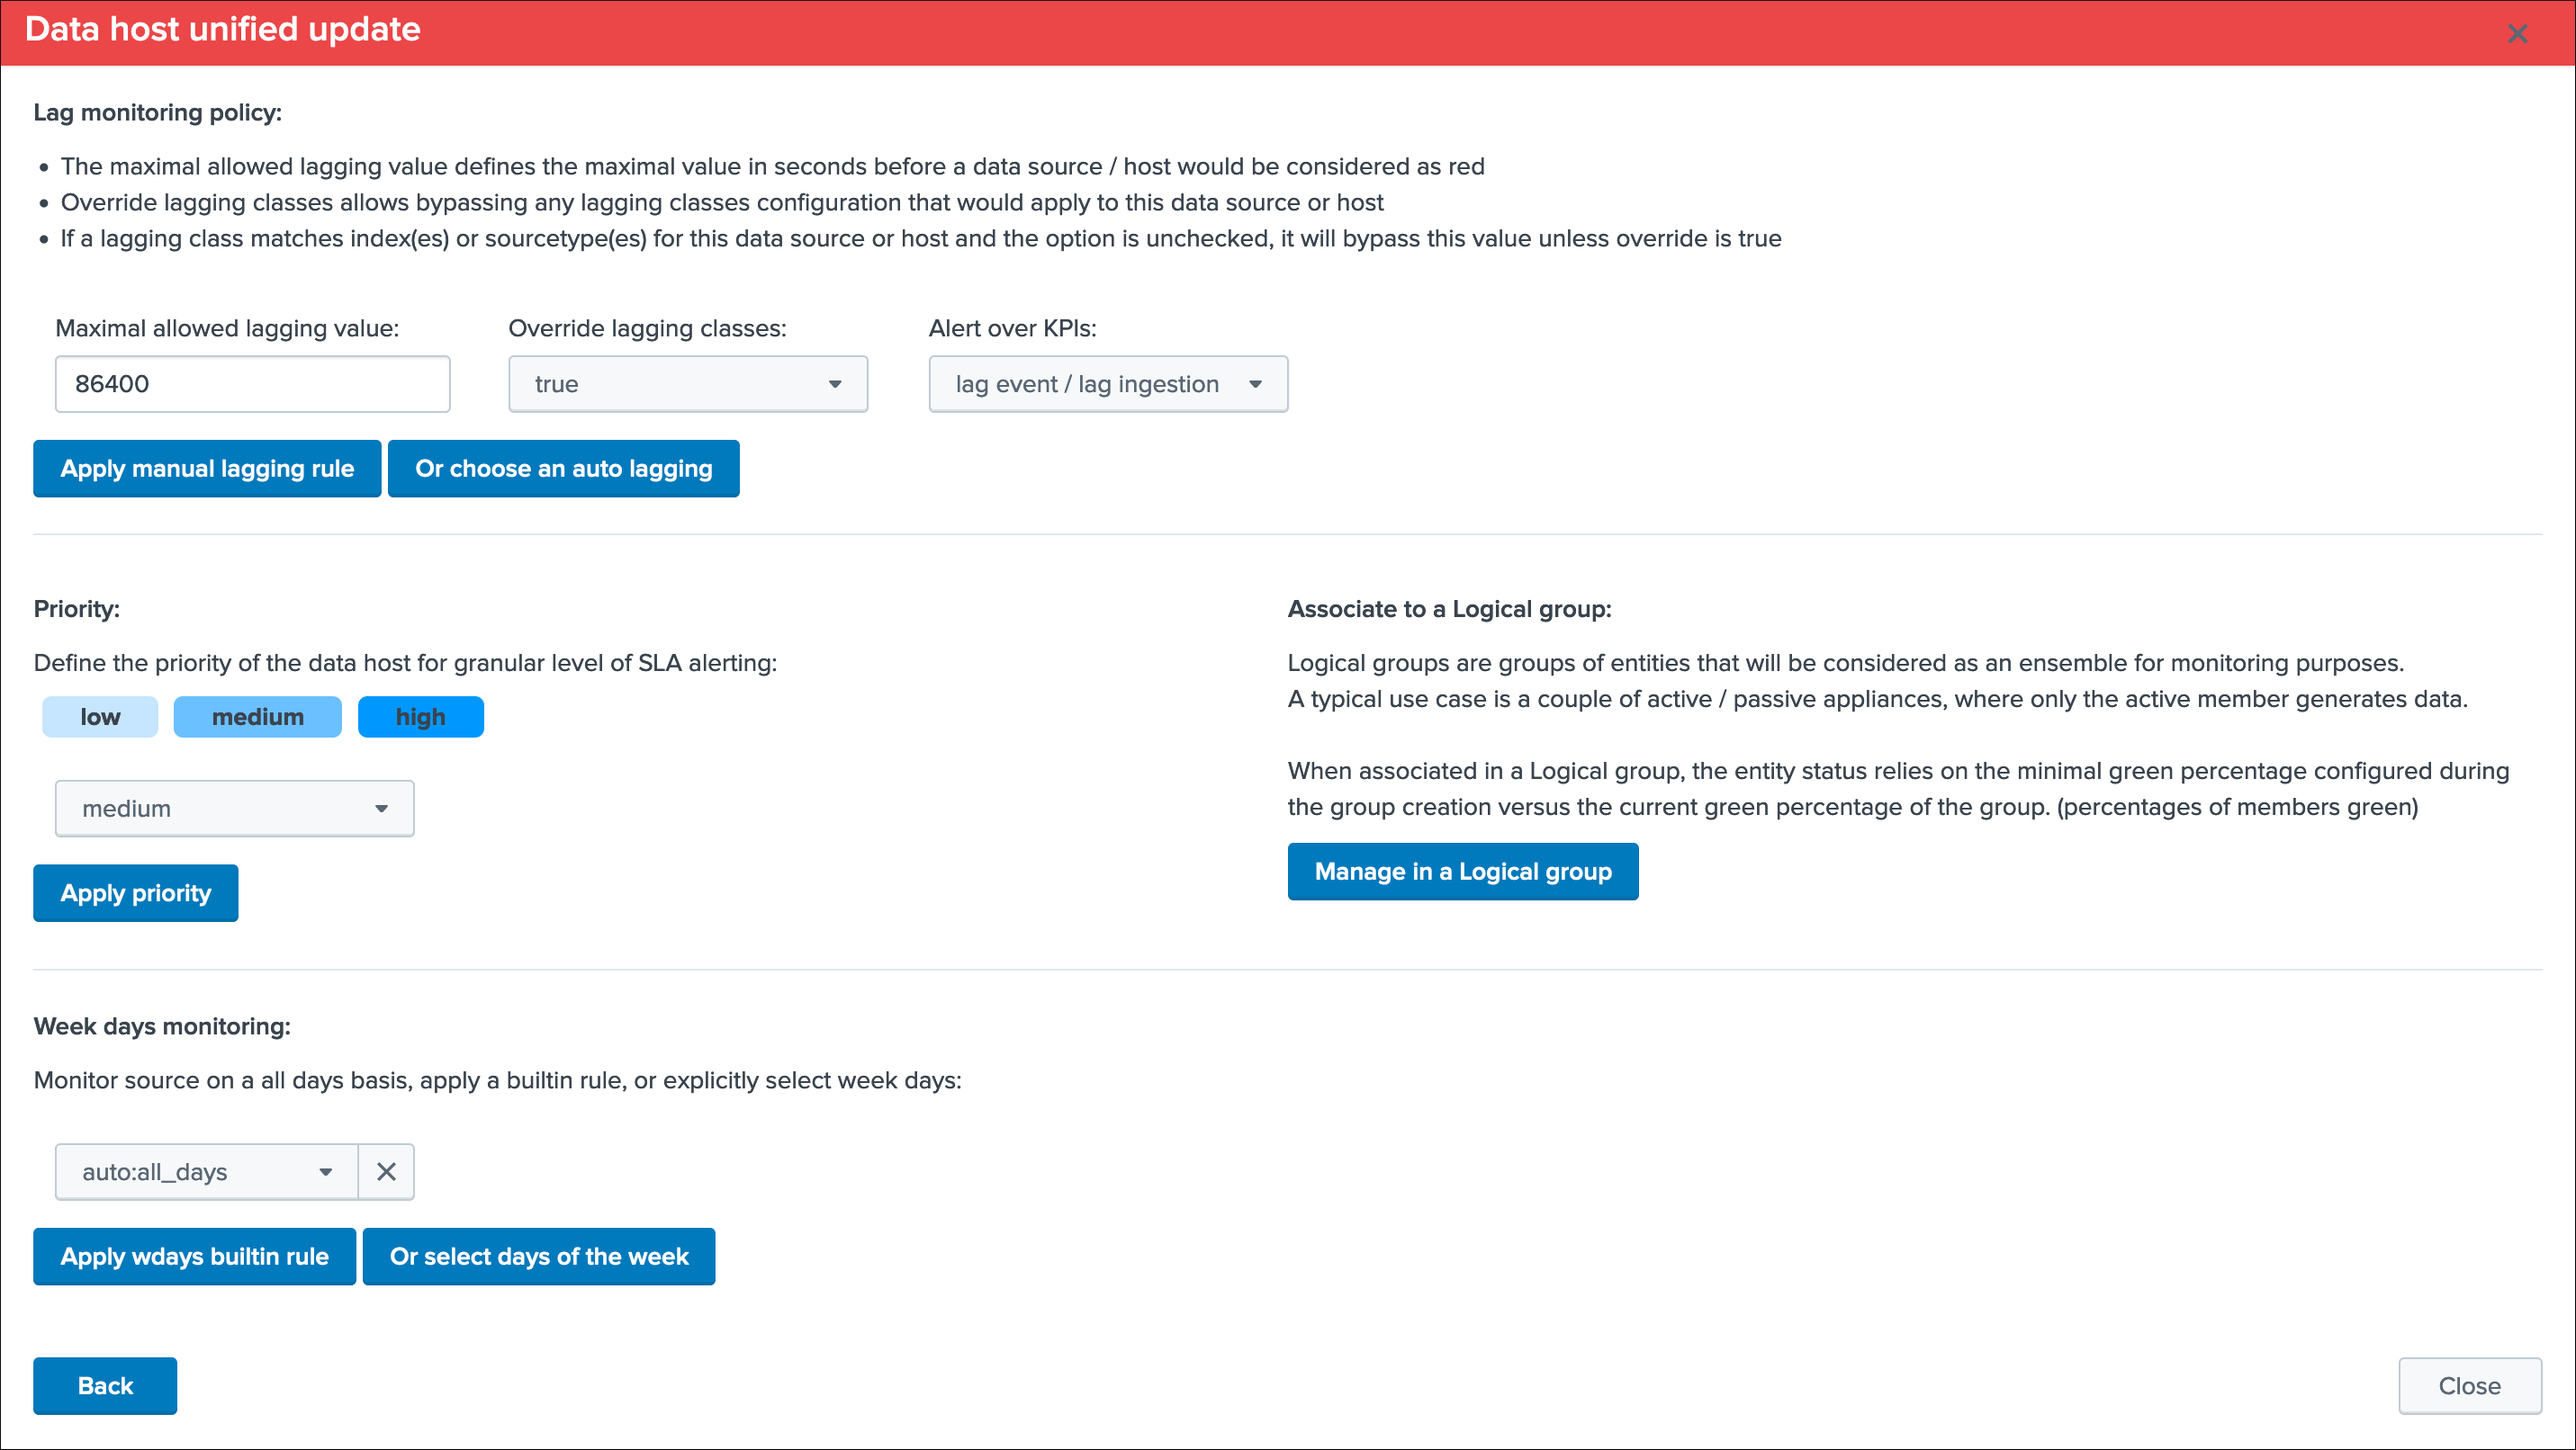
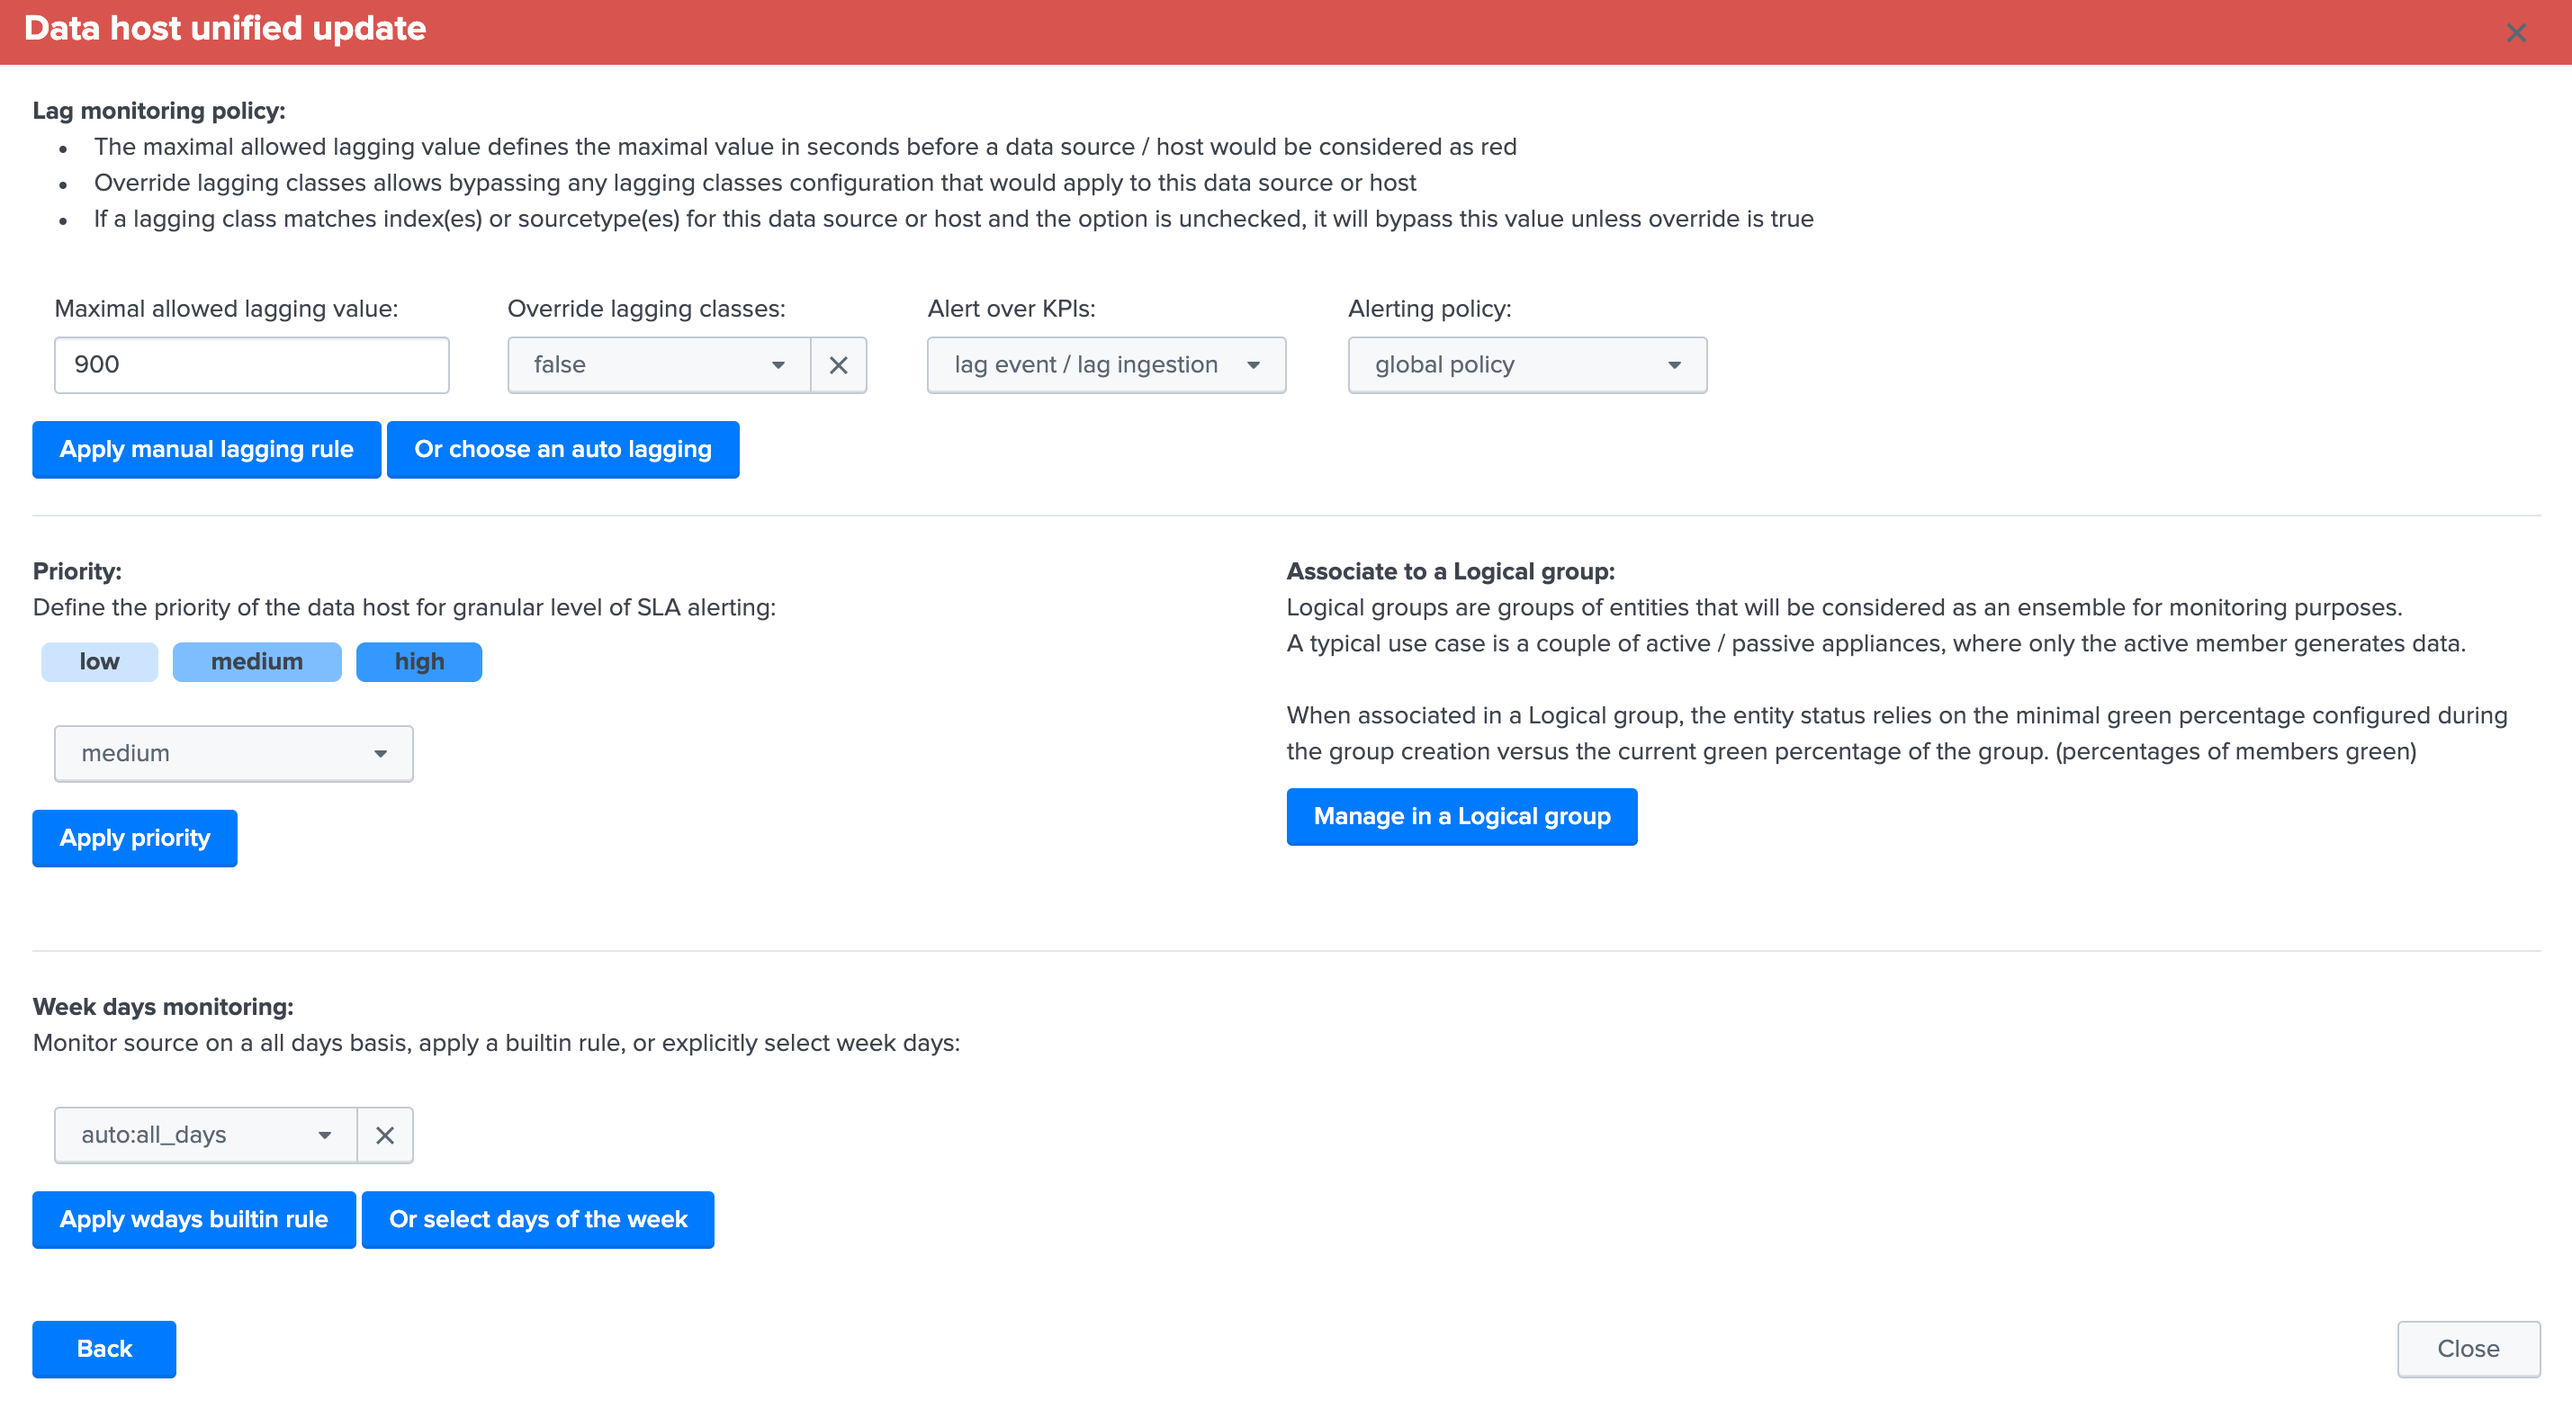
docs update

diff --git a/docs/userguide.rst b/docs/userguide.rst
@@ -389,7 +389,8 @@ Particularities of data hosts monitoring
 
 **The features are almost equivalents between data sources and data hosts, with a few exceptions:**
 
-- ``state condition:`` the data host entity is considered active as long as at least one sourcetype continues to be indexed
+- ``state condition:`` the data host entity state depends on the global data host alerting policy and eventually its own configuration
+- Depending on the data ``hosts alerting policy``, an host will be red if no more sourcetypes are emitting data for it, or individually by sourcetype if at least one sourcetype does not respect monitoring rules
 - Using ``allowlists and blocklists`` provide additional granularity to define what data has to be included or is excluded during the searches
 - ``Outliers detection`` is available for data hosts too and would help detecting significant changes such as a major sourcetype that is not ingested anymore
 - ``logical group``: a data host can be part of a logical group, this feature is useful for example to handle a couple of active / passive entities (example with firewalls) where the passive entity will not be generating any data actively
@@ -399,6 +400,12 @@ Particularities of data hosts monitoring
 See :ref:`Logical groups (clusters)` for more details on this feature
 
 See :ref:`Enrichment tags` for more details om this feature
+
+**Additionally, if there has been indexes migrations, or if one or more sourcetypes have been decomissioned, this will affect the state of a given host if the alert policy is defined to granular per sourcetype, you can reset the knowledge of indexes and sourcetypes on a per host basis via the reset button:**
+
+.. image:: img/first_steps/data_host_reset.png
+   :alt: img/first_steps/data_host_reset
+   :align: center
 
 Metric Hosts tracking and features
 ----------------------------------
@@ -524,6 +531,12 @@ This influences the state definition:
 This option allows grouping data hosts and metric hosts into logical groups which are taken in consideration by groups rather than per entity.
 
 See :ref:`Logical groups (clusters)` for more details about this feature.
+
+**Alerting policy: (data hosts only)**
+
+This option allows controlling on a per host basis the behaviour regarding the sourcetypes monitoring per host.
+
+See :ref:`Alerting policy for data hosts` for more details about this feature.
 
 Elastic sources
 ===============
@@ -1626,6 +1639,69 @@ To remove an association from a logical group, click on the entry table in the i
    :align: center
 
 Once the action is confirmed, the association is immediately removed and the entity acts as any other independent entities.
+
+Alerting policy for data hosts
+==============================
+
+.. admonition:: Data hosts alerting policy management
+
+   - The alerting policy controls how the state of a data host gets defined depending on the sourcetypes that are emitting data
+   - The global default mode named "granular per host" instructs TrackMe to turn an host to red only if no sourcetypes are being indexed and respecting monitoring rules
+   - The global alternative mode named "granular per sourcetype" instructs TrackMe to consider sourcetypes and their monitoring rules individually on a per host basis, to finally define the overall state of the host
+   - This global mode can optionally be overriden on a per host basis via the configuration screen of the data host
+
+See :ref:`Data hosts global alerting policy` to control the global policy settings.
+
+**An host emitting multiple sourcetypes will appear in the UI with a multi value summary field describing the state and main information of sourcetypes:**
+
+.. image:: img/data_hosts_alerting_policy1.png
+   :alt: data_hosts_alerting_policy1.png
+   :align: center
+
+**Zooming on the summary sourcetype field:**
+
+.. image:: img/data_hosts_alerting_policy2.png
+   :alt: data_hosts_alerting_policy2.png
+   :align: center
+
+**The field provides visibility against each sourcetype known to the host, a main state (red / green) represented by an ASCII emoji and the KPI main information about the sourcetypes:**
+
+- ``max_allowed``: the maximal laggging value allowed for this sourcetype according to the monitoring rules (lagging classes, default lagging)
+- ``last_time``: A human readable format of the latest events available for that host from the event timestamp point of view (_time)
+- ``last_event_lag``: The current event lag value in seconds (difference between now and the latest _time available for this host/sourcetype)
+- ``last_ingest_lag``: The current indexing lag value in seconds (difference between the event timestamp and the indexing time)
+- ``state``: for readability purposes, the state green/red is represented as an ASCII emoji
+
+**Should any sourcetype not being indexed or not respecting the monitoring rules, the state icon will turn red:**
+
+.. image:: img/data_hosts_alerting_policy3.png
+   :alt: data_hosts_alerting_policy3.png
+   :align: center
+
+.. hint::
+
+   If a sourcetypes turns ``red``, this will NOT impact the state of the host unless the global policy is set to granular per sourcetype, or the host policy is defined for that host especially
+
+**To configure sourcetypes to be taken into account individually, you can either:**
+
+- Define the global policy accordingly (note: this applies by default to all hosts), See :ref:`Data hosts global alerting policy`
+- Define the alerting policy for that host especially in the data host configuration screen
+
+**Defining a policy per host:**
+
+*In the data host UI, click on the modify button to access to the alerting policy dropdown:*
+
+.. image:: img/data_hosts_alerting_policy4.png
+   :alt: data_hosts_alerting_policy4.png
+   :align: center
+
+**Three options are available:**
+
+- ``global policy``: instructs the data host settings to rely on the global alerting policy
+- ``red if at least one sourcetype is red``: instructs TrackMe to turn the host red if at least one sourcetype is in a red state (granular per sourcetype)
+- ``red only if all sourcetypes are red``: instructs TrackMe to turn the host red only if none of the sourcetypes are respecting monitoring rules (granular per host)
+
+*When a mode is defined for a given host that is not equal to the global policy, then the global alerting policy is ignored and replaced by the setting defined for that host.*
 
 Tags
 ====

diff --git a/docs/configuration.rst b/docs/configuration.rst
@@ -151,3 +151,20 @@ Default priority for data discovery
 - high
 
 *Notes: the high value is designed by default to be the highest SLA failure, which should ideally refer to an alert in your ticketing system.*
+
+Data hosts global alerting policy
+=================================
+
+.. admonition:: Altering policy
+
+   - Data hosts monitoring global policy is controlled via a macro configurable in the management UI for TrackMe.
+   - There are two different modes available which define how the monitoring behaves for data hosts and when to declare that a host is having availability issues or not.
+   - The default mode "granular by host" instructs TrackMe to consider turning an host red only if there are no more sourcetypes emitting data for that hosts according to the various configuration items.
+   - The mode "granular by sourcetype" instructs TrackMe to consider each sourcetype individually by host, including their own max lagging rules, to determine if an host is having issues or not
+   - The global policy can be overriden on a per host basis via the host configuration management screen
+
+*Configuration of the global policy mode in the managment UI:*
+
+.. image:: img/data_hosts_allerting_policy_config.png
+   :alt: data_hosts_allerting_policy_config.png
+   :align: center
